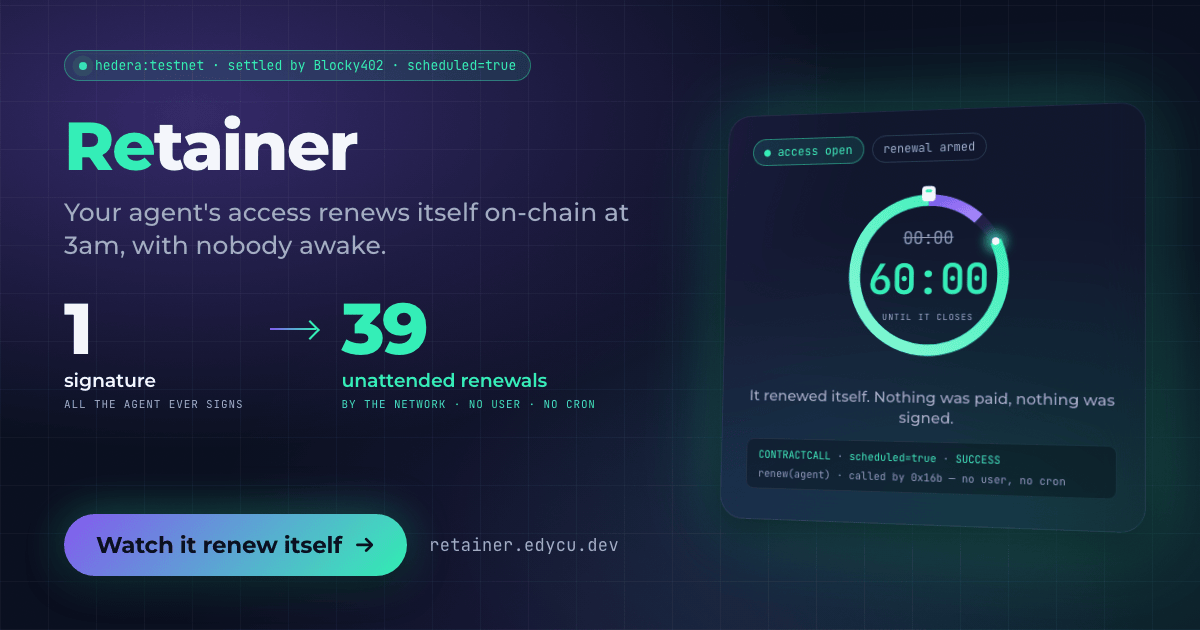
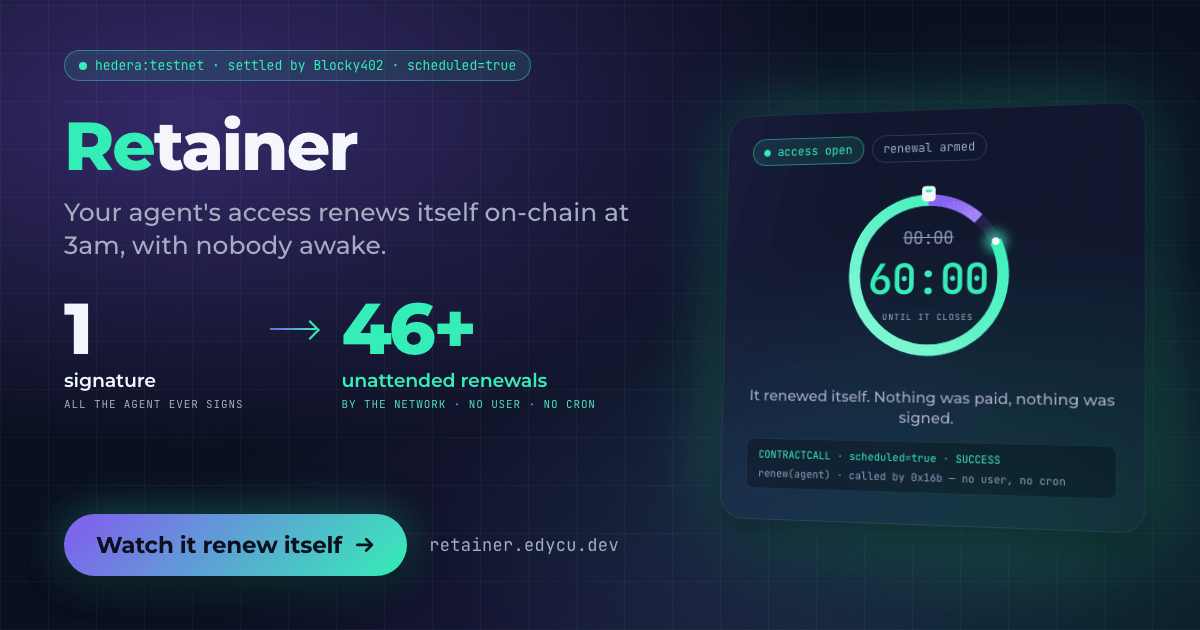
fix(docs): say what the deployment does now, not what it did on Monday
Re-terming the demo to hourly periods left four claims behind that a judge can falsify with
the one curl the README itself hands them:

- README, JUDGE and docs/proof all described 90-second periods in the present tense. The
  live status endpoint answers `periodSeconds: 3600`. Each now dates the old setting and
  names the endpoint as the live answer, and the README paragraph says the thing that does
  not age: the gas reserve is the clock, and the period length turns it into a duration.
- RUNBOOK told you to expect 40 contract tests. There are 64, as README and JUDGE both
  already said.
- DEMO.md called n=30 "all the renewals this deployment has ever armed". It was, on the run
  it is dated with; the deployment has kept renewing since, so the sentence now says so.

The social card said 39 unattended renewals. The mirror node says 46 executions across the
three deployments, and it climbs every hour — so the card, the og:image alt and the
generators now read 46+, a floor that cannot go stale, and the card's ?v= is bumped because
platforms cache it by URL. The og:description drops the count entirely.

Changed region(s): [[0.2775, 0.4825, 0.4008, 0.573]]

diff --git a/packages/nextjs/utils/scaffold-hbar/getMetadata.ts b/packages/nextjs/utils/scaffold-hbar/getMetadata.ts
@@ -18,9 +18,9 @@ const titleTemplate = "%s | Retainer";
 //
 // BUMP THE ?v= WHENEVER THE IMAGE CHANGES. Discord, X and Slack cache the card by URL and offer
 // no purge; a regenerated file at an unchanged URL is invisible to everyone who has already seen it.
-const SOCIAL_CARD = "/og-card.png?v=2";
+const SOCIAL_CARD = "/og-card.png?v=3";
 const SOCIAL_CARD_ALT =
-  "Retainer social card: one signature buys access, then 39 unattended renewals executed by the network, with the countdown ring caught refilling to 60:00";
+  "Retainer social card: one signature buys access, then 46+ unattended renewals executed by the network, with the countdown ring caught refilling to 60:00";
 
 export const getMetadata = ({
   title,

diff --git a/packages/nextjs/app/layout.tsx b/packages/nextjs/app/layout.tsx
@@ -31,7 +31,7 @@ export const metadata = getMetadata({
     "An x402-gated service on Hedera whose access renews itself on-chain via the Hedera Schedule Service. An agent pays once; the network keeps it alive.",
   // 101 chars — the card copy has to survive a mobile feed, which clips around 125.
   cardDescription:
-    "An agent pays once, then Hedera renews its access on-chain by itself — 39 renewals, no user, no cron.",
+    "An agent pays once, then Hedera renews its access on-chain by itself — on schedule, no user, no cron.",
 });
 
 const ScaffoldHbarApp = ({ children }: { children: React.ReactNode }) => {

diff --git a/README.md b/README.md
@@ -565,8 +565,13 @@ runs exactly as far as the money does: until the subscriber's balance or the sel
 reserve runs dry, and no further. Nothing on-chain is holding a wake-up call after a lapse, so
 the restart has to come from outside — the agent paying again, or the seller topping up
 `fundGasReserve()`, which nothing in the contract does on its own. That boundary is easy to
-miss at the demo settings on the current deployment: 90-second periods against a reserve that
-holds back 2 ℏ per armed renewal, so a funded Retainer burns down in minutes rather than months.
+miss, because it is the gas reserve and not the subscription that ends up being the clock: a
+renewal that re-arms costs about 1.6 ℏ of gas to collect 1 ℏ of revenue, and 2 ℏ is held back per
+armed renewal while it is pending. The period length turns that into a duration. The demo ran
+90-second periods until 2026-09-09 and burned down in minutes; it runs hourly periods now and the
+same reserve lasts days. `packages/hardhat/scripts/retermAndRestart.ts` derives both the period and
+the reserve from the date the demo has to survive to, rather than from a number someone picked, and
+`periodSeconds` in `/api/retainer/status` is the live answer for whatever it is set to today.
 
 ## 📐 Reproduce the numbers
 

diff --git a/JUDGE.md b/JUDGE.md
@@ -163,9 +163,11 @@ Four real ones. None of them is fixed here.
    balance; neither schedules anything. Opening a subscription again is the only way back —
    `subscribe()`, or the `subscribeFor()` the server calls when the agent pays the next 402. So
    the unattended part runs exactly as far as the money does: until the subscriber's balance or
-   the seller's gas reserve runs dry, and then someone outside has to send a transaction. At the
-   demo settings — 90-second periods, 2 ℏ held back per armed renewal — that is minutes, not
-   months.
+   the seller's gas reserve runs dry, and then someone outside has to send a transaction. With
+   2 ℏ held back per armed renewal, the period length decides how long that takes: at the
+   90-second periods the demo ran until 2026-09-09, minutes; at the hourly periods it runs now,
+   days. Either way it is the reserve that ends it, and `periodSeconds` in `/api/retainer/status`
+   says which setting is live.
 
 Also true: not audited, testnet only, and `RENEWAL_COST_ESTIMATE` is an explicit estimate — a
 contract cannot know a future network fee.

diff --git a/DEMO.md b/DEMO.md
@@ -144,9 +144,11 @@ one run.
 disagree at small n. At n = 30 a p95 is close to the second-largest sample — a weak tail
 estimate. Treat 151 ms as "the tail we have observed", not a service-level guarantee.
 
-**The drift sample is a population, not a sample.** All 30 renewals this deployment has ever
-armed are in it, because the contract emits `RenewalScheduled(agent, schedule, firesAt)` and
-every one of those pairs to a `scheduled=true` CONTRACTCALL. Nothing was selected out.
+**The drift sample is a population, not a sample.** All 30 renewals this deployment had armed as
+of the run above are in it, because the contract emits `RenewalScheduled(agent, schedule, firesAt)`
+and every one of those pairs to a `scheduled=true` CONTRACTCALL. Nothing was selected out. The
+deployment keeps renewing, so a later `yarn bench` reports a larger n — the table is the run it is
+dated with, not a running total.
 
 **Disclosed seeding.** That traffic is operator-generated: every renewal came from subscriptions
 we funded ourselves on testnet, at a demo period of 90 seconds. There are no external users in

diff --git a/docs/proof.md b/docs/proof.md
@@ -56,7 +56,8 @@ current source concrete:
   source (`subscribe()` is `0x8f449a05`, `subscribeFor(address)` is `0x6da6c39c`).
 - The run used a **60-second period**. The current source sets `MIN_PERIOD_SECONDS = 61`, a
   bound added after this run so the anyone-callable `renew()` window stays a strict minority
-  of every period; the current deployment runs 90-second periods.
+  of every period; the current deployment ran 90-second periods when this run was transcribed and
+  hourly ones since 2026-09-09, `periodSeconds` in `/api/retainer/status` being the live answer.
 
 Neither affects what the run demonstrates: the Schedule Service really does call back into a
 contract, on time, unattended, and re-arm itself — and what that costs.

diff --git a/RUNBOOK.md b/RUNBOOK.md
@@ -119,7 +119,7 @@ typings generated into `packages/hardhat/typechain-types`.
 yarn hardhat:test
 ```
 
-Expect **40 passing**. The suite takes roughly two minutes; each test redeploys the contract
+Expect **64 passing**. The suite takes roughly two minutes; each test redeploys the contract
 and reinstalls the mock scheduler.
 
 The tests run against a forked Hedera environment (`HEDERA_FORKING=true`) with a
